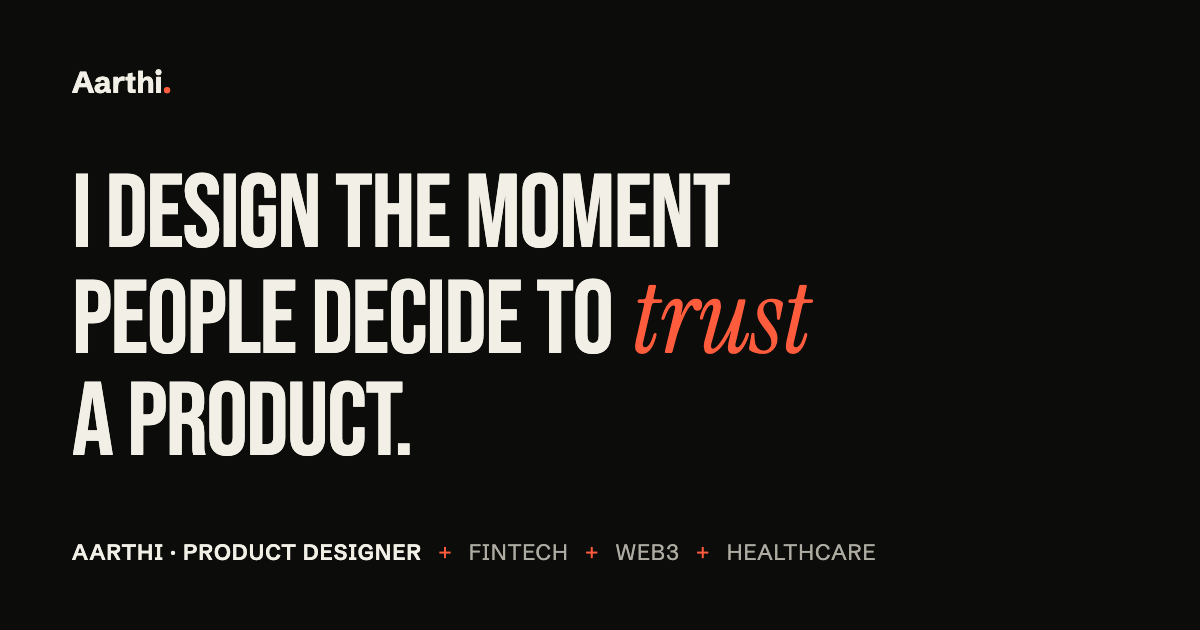
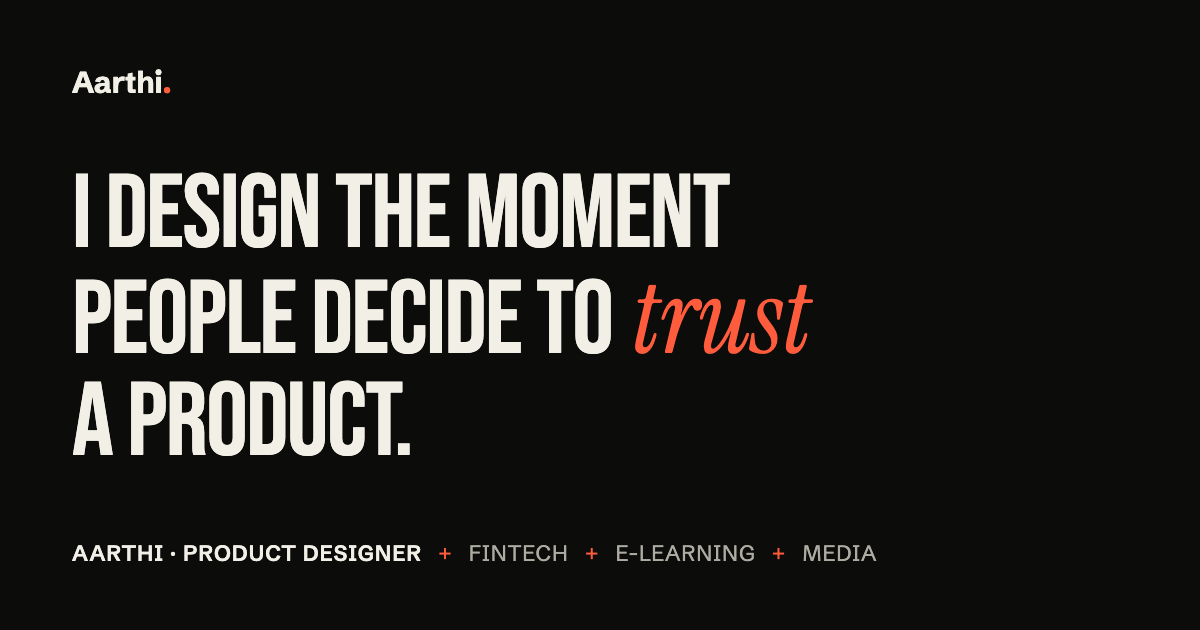
Home: sharper hero copy, trimmed industries, testimonial order, new link preview
- Hero paragraph rewritten with concrete proof; years updated to 7+
- Industries strip trimmed to work shown on the site (adds Media)
- Testimonials reordered: Sonaal, Dafna, Ean
- Search/link-preview text and banner updated (Fintech, E-learning, Media)

diff --git a/index.html b/index.html
@@ -8,18 +8,18 @@
   <link rel="icon" type="image/png" sizes="16x16" href="assets/img/favicon-16.png?v=3" />
   <link rel="apple-touch-icon" sizes="180x180" href="assets/img/apple-touch-icon.png?v=3" />
   <title>Aarthi, Product Designer</title>
-  <meta name="description" content="Product designer with 7 years turning ambiguous, high-stakes problems across fintech, Web3 and healthcare into products people trust." />
+  <meta name="description" content="Product designer with 7+ years turning ambiguous, high-stakes problems across fintech, enterprise and e-learning into products people trust." />
 
   <meta property="og:title" content="Aarthi, Product Designer" />
-  <meta property="og:description" content="I design the moment people decide to trust a product. Fintech · Web3 · Healthcare." />
+  <meta property="og:description" content="I design the moment people decide to trust a product. Fintech · E-learning · Media." />
   <meta property="og:type" content="website" />
   <meta property="og:url" content="https://aarthi.design/" />
-  <meta property="og:image" content="https://aarthi.design/assets/img/og-image.png" />
+  <meta property="og:image" content="https://aarthi.design/assets/img/og-image.png?v=2" />
   <meta property="og:image:width" content="1200" />
   <meta property="og:image:height" content="630" />
   <meta property="og:image:alt" content="Aarthi, Product Designer. I design the moment people decide to trust a product." />
   <meta name="twitter:card" content="summary_large_image" />
-  <meta name="twitter:image" content="https://aarthi.design/assets/img/og-image.png" />
+  <meta name="twitter:image" content="https://aarthi.design/assets/img/og-image.png?v=2" />
 
   <link rel="preconnect" href="https://fonts.googleapis.com" />
   <link rel="preconnect" href="https://fonts.gstatic.com" crossorigin />
@@ -51,9 +51,10 @@
       </h1>
       <div class="hero__foot reveal">
         <p class="hero__lede">
-          For over six years, I've been transforming complex business challenges into 
-          intuitive digital experiences. By combining creativity with empathy, I design 
-          products that are easy to understand, enjoyable to use, and worthy of users' trust.
+          For more than seven years, I've designed products where trust is on the line:
+          a fintech platform that moved a regulated agent network off paper, a community
+          app rebuilt around belonging, and an iPad app parents trust with their kids.
+          I take work from research to shipped UI, and build the systems that keep it consistent.
         </p>
         <div class="hero__actions">
           <a href="#contact" class="btn">Let's talk <span>↗</span></a>
@@ -66,25 +67,29 @@
     <div class="ind-marquee reveal" aria-label="Industries I work in">
       <div class="ind-marquee__row">
         <span class="ind-marquee__item">Fintech</span><span class="ind-marquee__plus">+</span>
-        <span class="ind-marquee__item">Healthcare</span><span class="ind-marquee__plus">+</span>
-        <span class="ind-marquee__item">E-learning</span><span class="ind-marquee__plus">+</span>
-        <span class="ind-marquee__item">SaaS</span><span class="ind-marquee__plus">+</span>
-        <span class="ind-marquee__item">B2B</span><span class="ind-marquee__plus">+</span>
-        <span class="ind-marquee__item">E-commerce</span><span class="ind-marquee__plus">+</span>
-        <span class="ind-marquee__item">Marketplaces</span><span class="ind-marquee__plus">+</span>
+        <span class="ind-marquee__item">Enterprise</span><span class="ind-marquee__plus">+</span>
+        <span class="ind-marquee__item">Media</span><span class="ind-marquee__plus">+</span>
         <span class="ind-marquee__item">Community</span><span class="ind-marquee__plus">+</span>
-        <span class="ind-marquee__item">Web3</span><span class="ind-marquee__plus">+</span>
+        <span class="ind-marquee__item">E-learning</span><span class="ind-marquee__plus">+</span>
         <span class="ind-marquee__item">Design systems</span><span class="ind-marquee__plus">+</span>
-        <!-- duplicate set for a seamless loop -->
         <span class="ind-marquee__item">Fintech</span><span class="ind-marquee__plus">+</span>
-        <span class="ind-marquee__item">Healthcare</span><span class="ind-marquee__plus">+</span>
-        <span class="ind-marquee__item">E-learning</span><span class="ind-marquee__plus">+</span>
-        <span class="ind-marquee__item">SaaS</span><span class="ind-marquee__plus">+</span>
-        <span class="ind-marquee__item">B2B</span><span class="ind-marquee__plus">+</span>
-        <span class="ind-marquee__item">E-commerce</span><span class="ind-marquee__plus">+</span>
-        <span class="ind-marquee__item">Marketplaces</span><span class="ind-marquee__plus">+</span>
+        <span class="ind-marquee__item">Enterprise</span><span class="ind-marquee__plus">+</span>
+        <span class="ind-marquee__item">Media</span><span class="ind-marquee__plus">+</span>
         <span class="ind-marquee__item">Community</span><span class="ind-marquee__plus">+</span>
-        <span class="ind-marquee__item">Web3</span><span class="ind-marquee__plus">+</span>
+        <span class="ind-marquee__item">E-learning</span><span class="ind-marquee__plus">+</span>
+        <span class="ind-marquee__item">Design systems</span><span class="ind-marquee__plus">+</span>
+        <!-- duplicate set for a seamless loop (the list repeats twice per half so it spans wide screens) -->
+        <span class="ind-marquee__item">Fintech</span><span class="ind-marquee__plus">+</span>
+        <span class="ind-marquee__item">Enterprise</span><span class="ind-marquee__plus">+</span>
+        <span class="ind-marquee__item">Media</span><span class="ind-marquee__plus">+</span>
+        <span class="ind-marquee__item">Community</span><span class="ind-marquee__plus">+</span>
+        <span class="ind-marquee__item">E-learning</span><span class="ind-marquee__plus">+</span>
+        <span class="ind-marquee__item">Design systems</span><span class="ind-marquee__plus">+</span>
+        <span class="ind-marquee__item">Fintech</span><span class="ind-marquee__plus">+</span>
+        <span class="ind-marquee__item">Enterprise</span><span class="ind-marquee__plus">+</span>
+        <span class="ind-marquee__item">Media</span><span class="ind-marquee__plus">+</span>
+        <span class="ind-marquee__item">Community</span><span class="ind-marquee__plus">+</span>
+        <span class="ind-marquee__item">E-learning</span><span class="ind-marquee__plus">+</span>
         <span class="ind-marquee__item">Design systems</span><span class="ind-marquee__plus">+</span>
       </div>
     </div>
@@ -253,21 +258,20 @@
 
         <div class="t__viewport">
           <div class="t__track" id="tTrack">
-            <!-- PLACEHOLDER quotes: replace with real ones from colleagues -->
             <blockquote class="t__item">
               <p class="t__quote">"She doesn't just design beautiful interfaces. She thinks deeply about the <em>user journey, business goals and product strategy</em>."</p>
               <p class="t__support">Working with Aarthi has been a pleasure. She approaches every project with creativity, professionalism and a strong sense of ownership. Her ability to communicate ideas clearly and collaborate with developers and stakeholders has had a meaningful impact on our product. Any team would be fortunate to have her.</p>
               <footer class="t__person"><span><b>Sonaal Bangera</b><i>Co-founder · NFN Labs</i></span></footer>
             </blockquote>
             <blockquote class="t__item">
-              <p class="t__quote">"A diligent and enthusiastic UI Designer who <em>takes her work seriously</em>."</p>
-              <p class="t__support">She's proactive about feedback and maintains a positive attitude, even when facing challenges like balancing efficiency with quality. Her commitment and willingness to learn make her a valuable addition to any team.</p>
-              <footer class="t__person"><span><b>Ean Lee</b><i>Project Manager · Snappymob Sdn Bhd</i></span></footer>
-            </blockquote>
-            <blockquote class="t__item">
               <p class="t__quote">"She approaches every challenge with a strong <em>product mindset</em>, balancing user needs, business objectives and technical constraints."</p>
               <p class="t__support">Aarthi brings much more than great design to the team. She takes ownership of her work, asks the right questions, and collaborates exceptionally well with both engineering and product teams. Her professionalism and commitment to delivering high-quality experiences make her a valuable asset to any organization.</p>
               <footer class="t__person"><span><b>Dafna Sokol</b><i>CTO · Golden Equator</i></span></footer>
+            </blockquote>
+            <blockquote class="t__item">
+              <p class="t__quote">"A diligent and enthusiastic UI Designer who <em>takes her work seriously</em>."</p>
+              <p class="t__support">She's proactive about feedback and maintains a positive attitude, even when facing challenges like balancing efficiency with quality. Her commitment and willingness to learn make her a valuable addition to any team.</p>
+              <footer class="t__person"><span><b>Ean Lee</b><i>Project Manager · Snappymob Sdn Bhd</i></span></footer>
             </blockquote>
           </div>
         </div>
